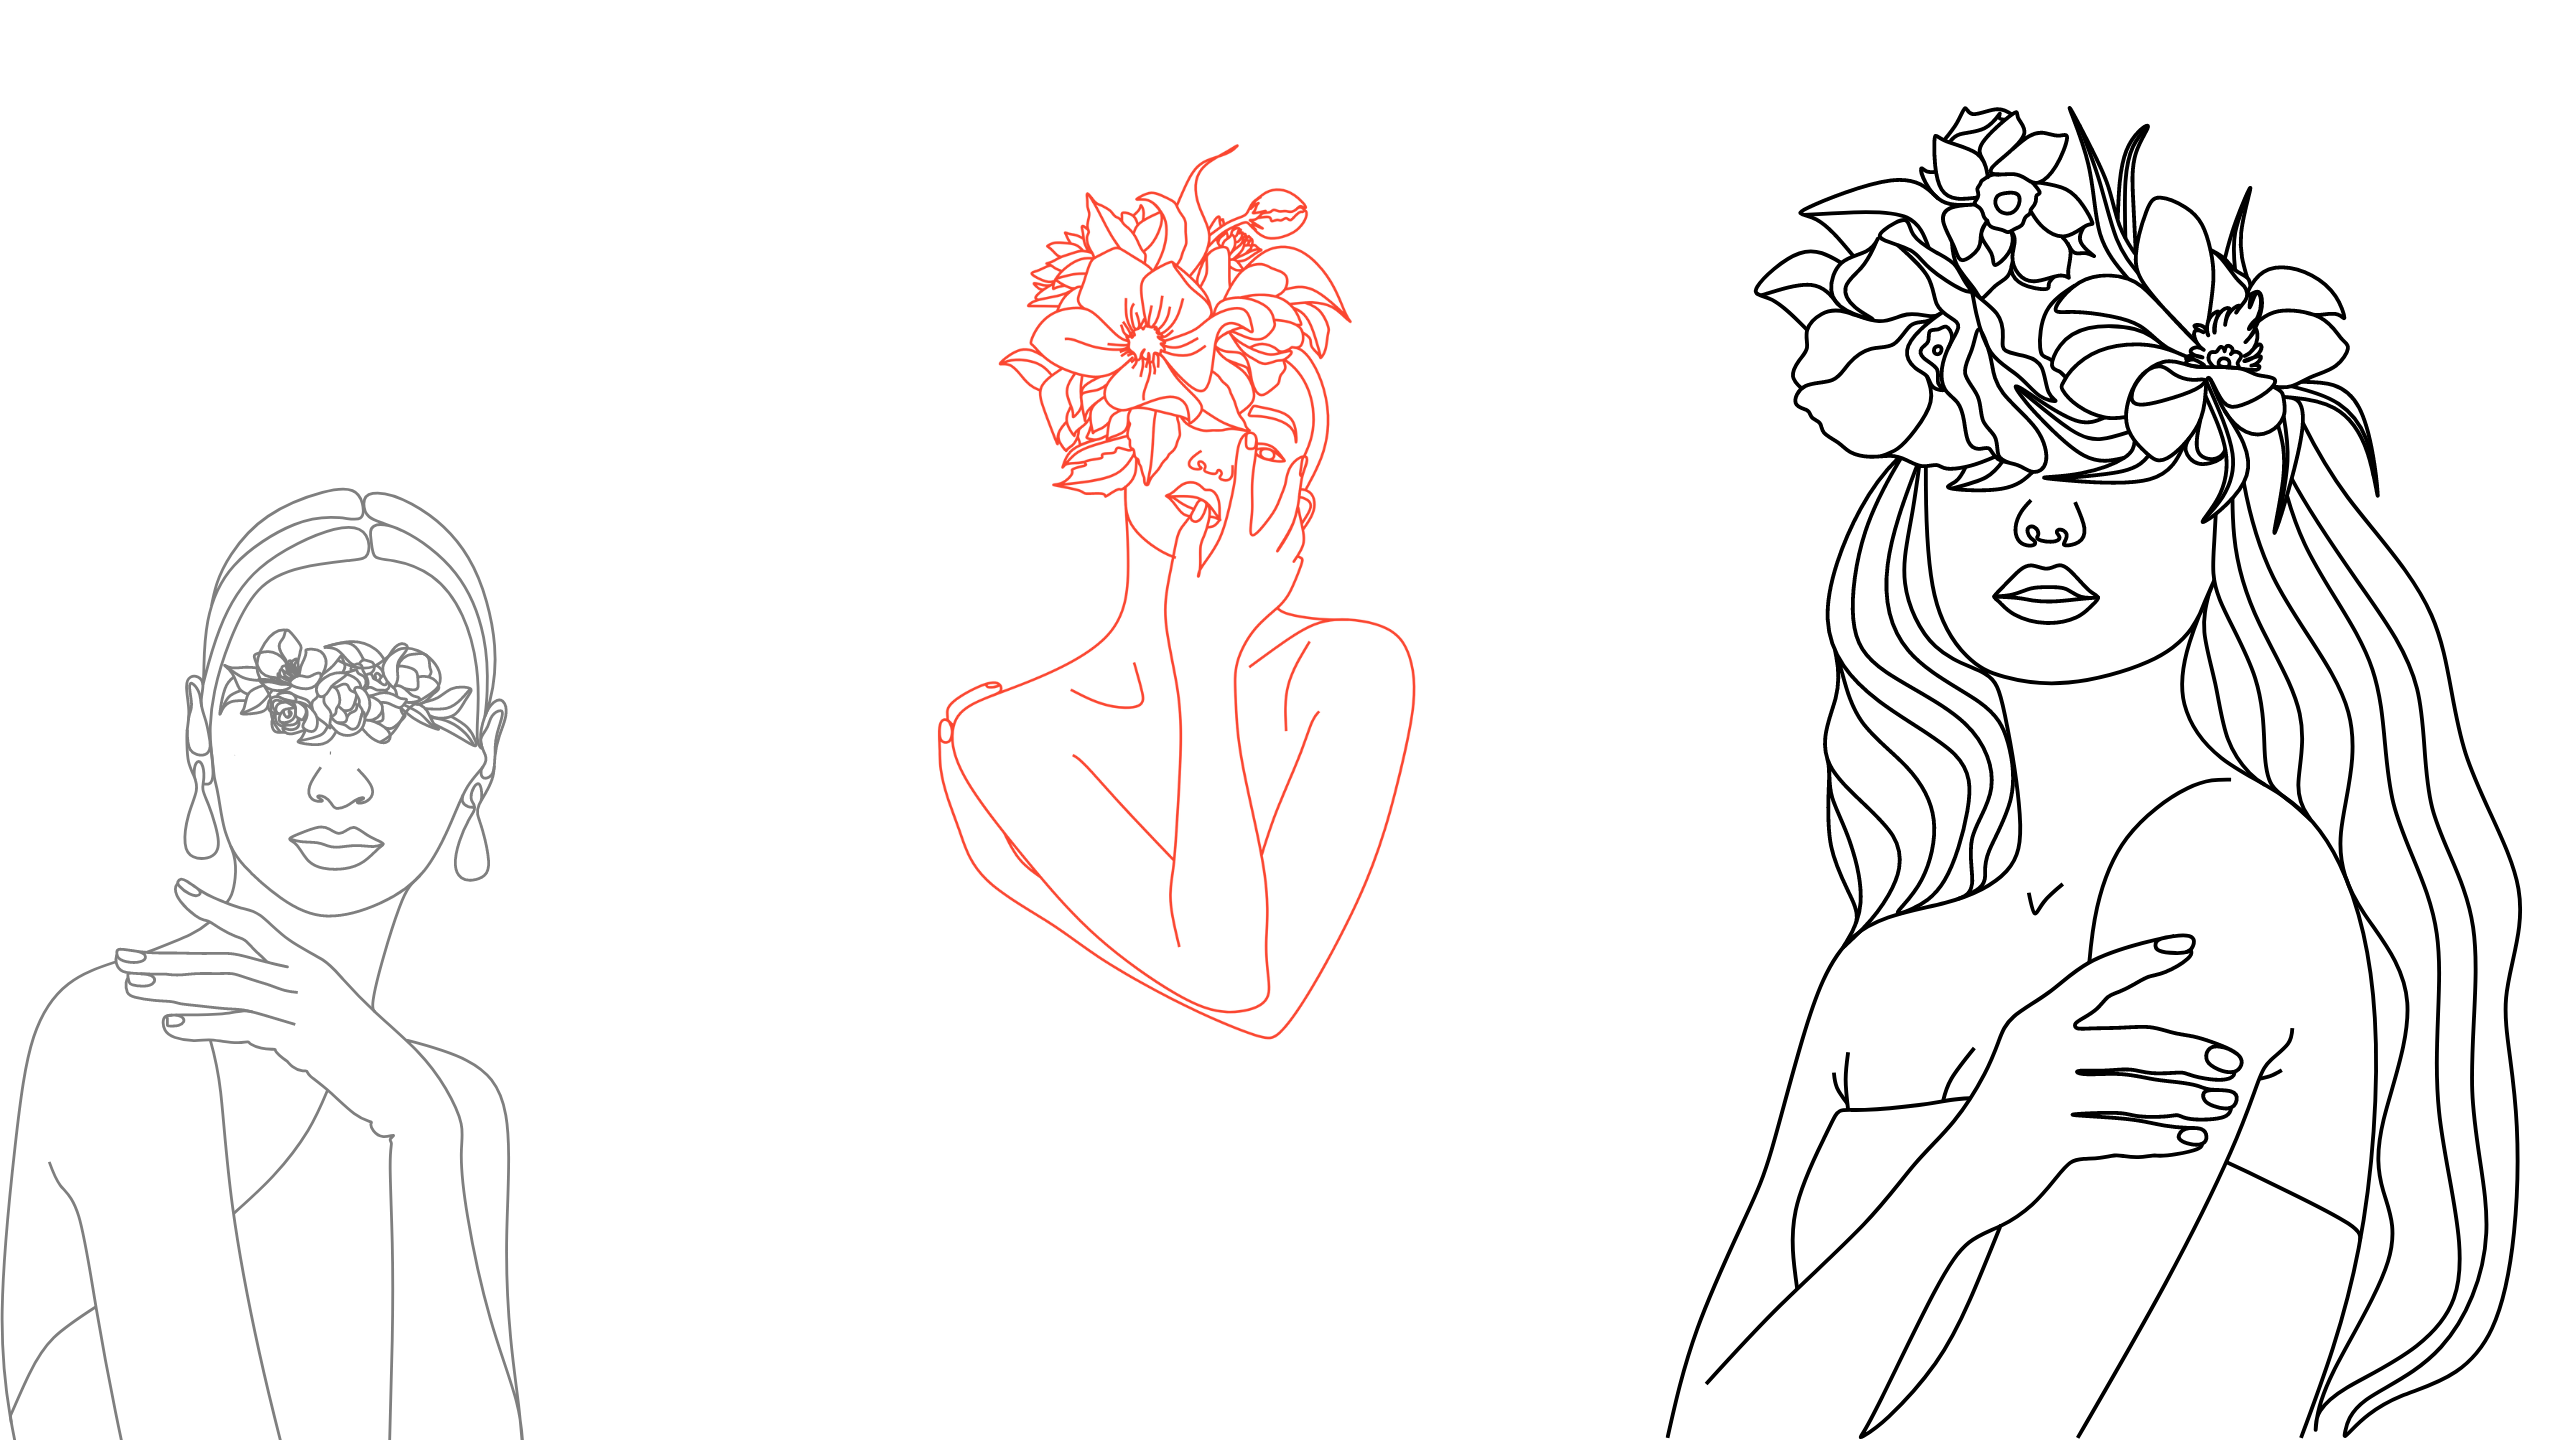
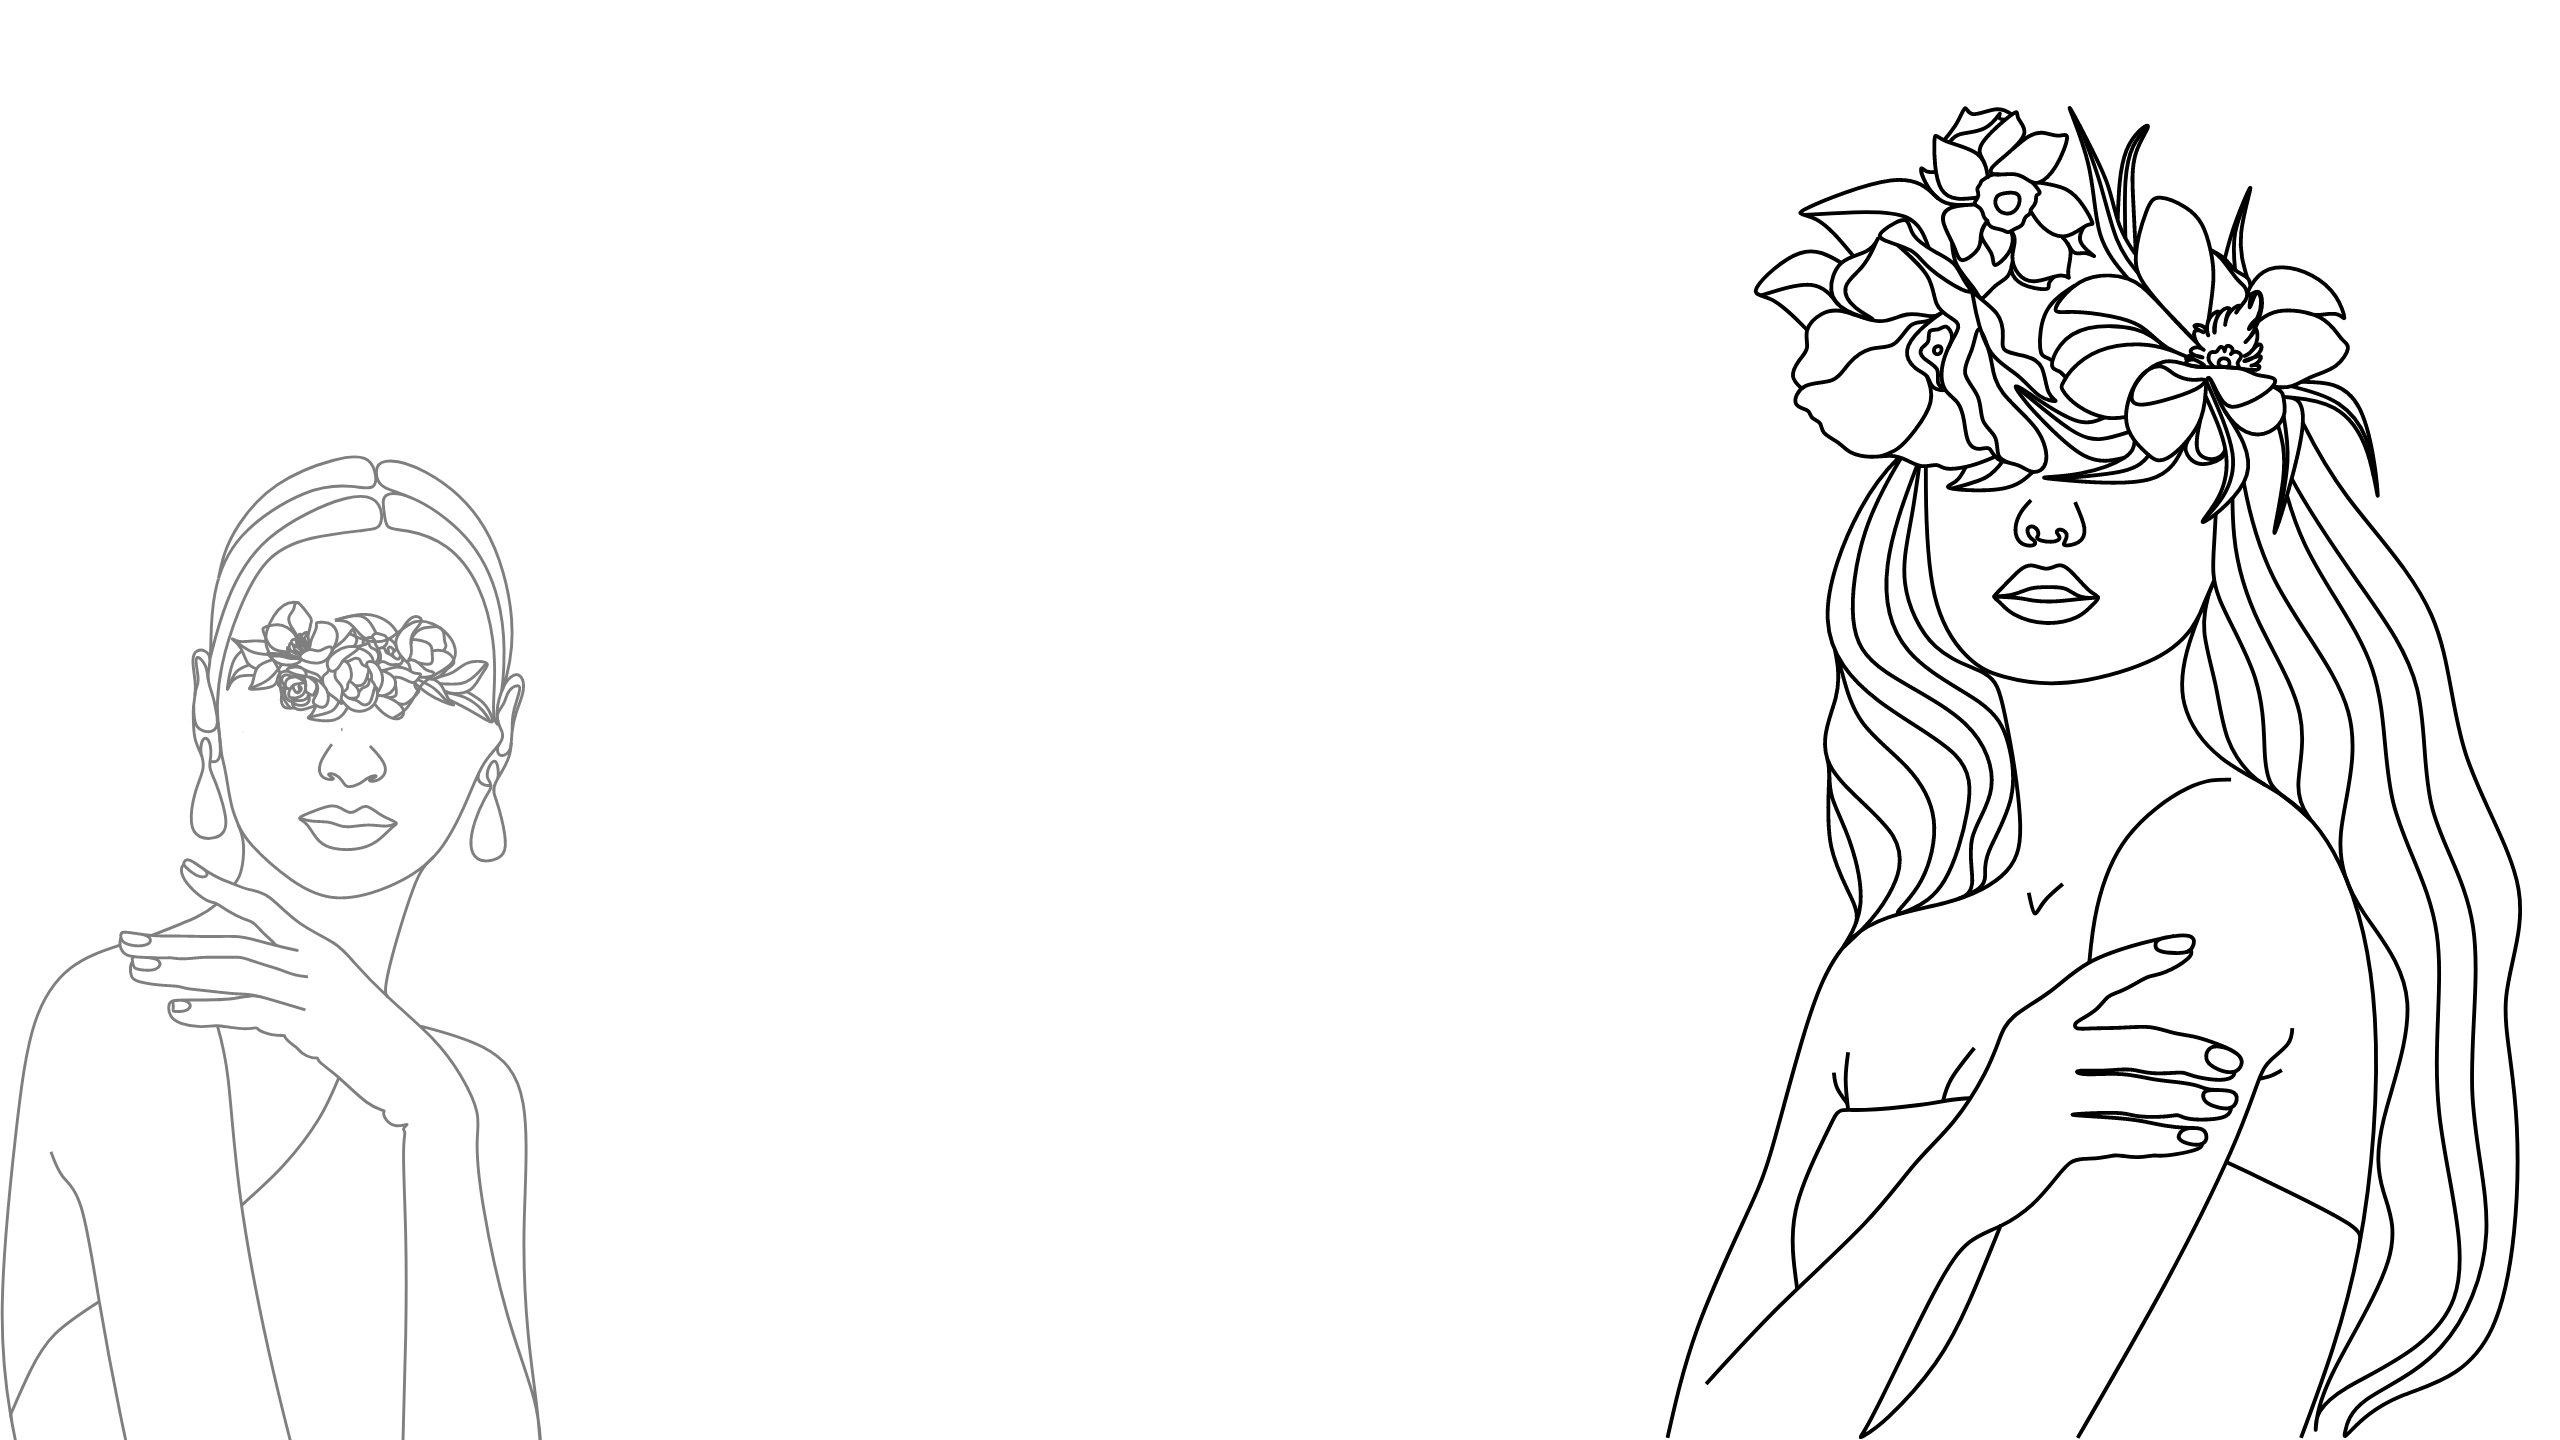
about page styles added

diff --git a/about.html b/about.html
@@ -87,11 +87,13 @@
              <img src="./images/pages/about-vectors.png" alt="artistic vector art" class="about-vector">
 
         </section>
-        <section class="about-section clearfix final-section">
-            <h2>Visit Us Today</h2>
-            <p>Experience the magic of Locks & Luster firsthand. Book an appointment with our talented team and let us create a
-                look that unlocks your true beauty. We look forward to welcoming you to our salon and being part of your
-                haircare journey.</p>
+        <section class="about-section ">
+            <div class="vector-section-text final-section">
+                <h2>Visit Us Today</h2>
+                <p>Experience the magic of Locks & Luster firsthand. Book an appointment with our talented team and let us create a
+                    look that unlocks your true beauty. We look forward to welcoming you to our salon and being part of your
+                    haircare journey.</p>
+            </div>
         </section>
 
     </main>

diff --git a/css/pages.css b/css/pages.css
@@ -2,12 +2,6 @@
     width: fit-content;
     height: fit-content;
     position: relative;
-    /* display: flex;
-    justify-content: center;
-    align-items: flex-start;
-    -webkit-text-stroke: 1px grey;
-    -webkit-text-fill-color: white; */
-        
 }
 
 .image-container {
@@ -101,22 +95,19 @@
     position: absolute;
     width: 100%;
     z-index: -1;
-    opacity: 30%;
-    margin-top: 250px;
+    opacity: 20%;
+    margin-top: 50px;
 
 }
 
 .vector-section-text{
-    width: 50%;
+    width: 45%;
     text-align: center;
-    margin: 100px;
+
 
 }
 
-/* .final-section{
-    position: absolute;
-    top: 100%;
-} */
+
 @media screen and (max-width: 610px) {
 
     .image-section{
@@ -131,5 +122,5 @@
     }
 
 
-
+    
 }
